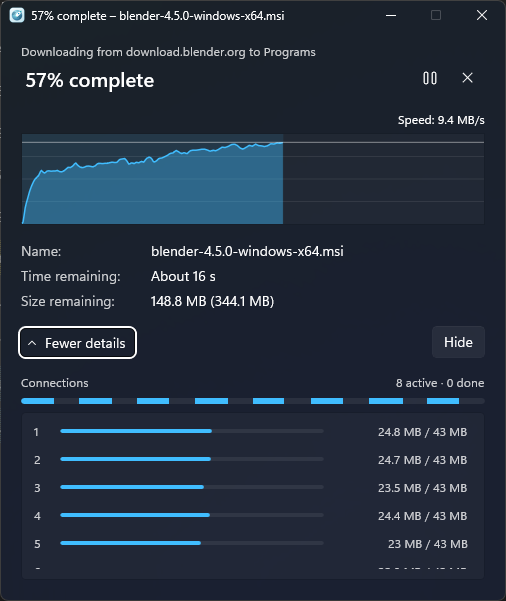
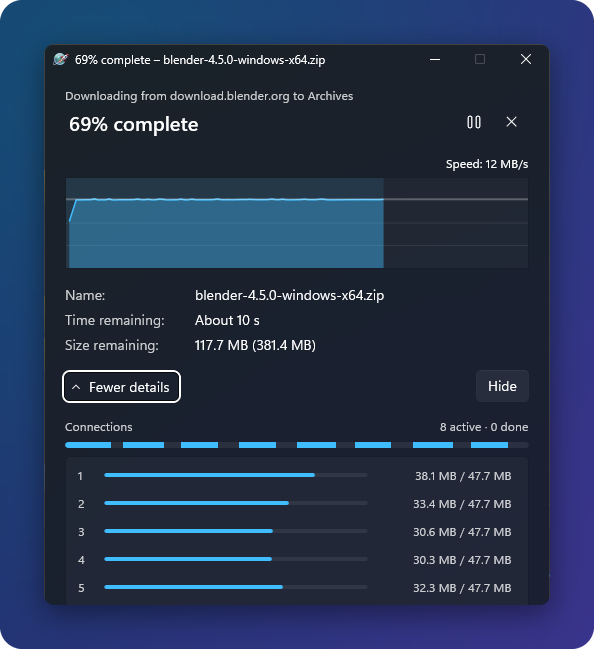
README: new landing page with cropped showcase screenshots
A centred hero with badges and a Download for Windows button, a section for the download button on videos, feature sections with light and dark screenshots, install, privacy, build and contributing. The old screenshots are replaced by the new ones.

diff --git a/README.md b/README.md
@@ -1,40 +1,110 @@
 <p align="center">
-  <img src="windows/OpenDownloadManager/Assets/app.png" width="96" height="96" alt="">
+  <img src="windows/OpenDownloadManager/Assets/app.png" width="128" height="128" alt="Open Download Manager icon">
 </p>
 
 <h1 align="center">Open Download Manager</h1>
 
 <p align="center">
-  A free, open source download manager for Windows, with a Chrome and Edge extension that hands it
-  your downloads and videos.
+  <b>A free, open-source download manager for Windows.</b><br>
+  Fast segmented downloads, a browser extension that hands it your files and videos,<br>
+  and a look that fits right in on Windows 11.
 </p>
 
 <p align="center">
-  <a href="https://github.com/Shadiul/open-download-manager/releases/latest"><b>Download for Windows</b></a>
-  ·
-  <a href="#install">Install</a>
-  ·
-  <a href="#build-from-source">Build</a>
-  ·
-  <a href="LICENSE">GPL-3.0</a>
+  <a href="https://github.com/Shadiul/open-download-manager/releases/latest"><img src="https://img.shields.io/github/v/release/Shadiul/open-download-manager?label=latest%20release&color=2f7cf6" alt="Latest release"></a>
+  <a href="https://github.com/Shadiul/open-download-manager/releases"><img src="https://img.shields.io/github/downloads/Shadiul/open-download-manager/total?color=2f7cf6" alt="Downloads"></a>
+  <a href="LICENSE"><img src="https://img.shields.io/github/license/Shadiul/open-download-manager?color=2f7cf6" alt="Licence: GPL-3.0"></a>
+  <img src="https://img.shields.io/badge/platform-Windows%2010%20%7C%2011-2f7cf6" alt="Platform: Windows 10 and 11">
+</p>
+
+<p align="center">
+  <a href="https://github.com/Shadiul/open-download-manager/releases/latest"><img src="docs/media/download-button.svg" width="340" height="64" alt="Download for Windows"></a>
+</p>
+
+<p align="center">
+  <a href="#features">Features</a> ·
+  <a href="#the-download-button-on-videos">Video button</a> ·
+  <a href="#install">Install</a> ·
+  <a href="#privacy-and-what-it-is-for">Privacy</a> ·
+  <a href="#build-from-source">Build</a> ·
+  <a href="#contributing">Contributing</a>
 </p>
 
 <p align="center">
   <a href="docs/media/demo.mp4">
-    <img src="docs/media/demo.gif" alt="A download handed over from the browser: the new-download window, the progress window with its speed graph, and the completion screen, while other downloads fill their rows in the list" width="900">
+    <img src="docs/media/demo.gif" width="900" alt="A video handed over from a web page with the corner button, the new-download window, the progress window, the tray flyout, the completion screen and the appearance options">
   </a>
   <br>
-  <sub>A browser download arriving, its progress window, and the completion screen (the middle is sped up 3×).
-  <a href="docs/media/demo.mp4">Watch in full quality</a>.</sub>
+  <sub>From the browser to a finished file in 40 seconds. <a href="docs/media/demo.mp4">Watch it in full quality (MP4)</a>.</sub>
 </p>
 
-Fast segmented downloads, pause and resume that survive a restart, a queue with a schedule, and
-video downloads from YouTube and many other sites through yt-dlp. It is for files and videos you
-have the right to download: it does not get around DRM, paywalls, or logins you do not have.
+Open Download Manager splits each file over many connections, resumes after a pause, a quit or a
+restart, keeps a queue with a schedule, and downloads videos from YouTube and many other sites
+through yt-dlp. It is for files and videos you have the right to download: it does not get around
+DRM, paywalls, or logins you do not have.
+
+<p align="center">
+  <picture>
+    <source media="(prefers-color-scheme: dark)" srcset="docs/screenshots/hero-dark.png">
+    <img src="docs/screenshots/hero-light.png" width="900" alt="The download list with finished, paused, downloading and queued downloads. Each row fills as it downloads.">
+  </picture>
+</p>
 
 ## Features
 
-**Fast and reliable downloads**
+<table>
+  <tr>
+    <td width="50%" valign="top">
+      <b>Fast and reliable</b><br>
+      Up to 32 connections per file. Downloads carry on after a pause, a quit or a restart of Windows.
+    </td>
+    <td width="50%" valign="top">
+      <b>Videos from the sites you use</b><br>
+      YouTube, Vimeo, X, Reddit, TikTok and the other sites yt-dlp supports, from 2160p down to MP3.
+    </td>
+  </tr>
+  <tr>
+    <td valign="top">
+      <b>Catches browser downloads</b><br>
+      An extension for Edge, Chrome, Brave, Vivaldi and Opera sends downloads to the app, logins included.
+    </td>
+    <td valign="top">
+      <b>Made for Windows 11</b><br>
+      Mica, light and dark themes, your accent colour, a tray flyout and a progress window per download.
+    </td>
+  </tr>
+</table>
+
+### The download button on videos
+
+> **Point at a video on a web page, and a *Download this video* button appears in its corner.**
+> One click hands that video to the app.
+
+<p align="center">
+  <img src="docs/screenshots/corner-button.png" width="720" alt="A video on a web page with the Download this video button in its top-right corner">
+</p>
+
+- The button always takes the video it sits on, even on a page with several.
+- On YouTube and on post sites (X, Reddit, Instagram, TikTok, Vimeo) it opens a quality menu first.
+  On other sites it sends the stream the browser played for that video.
+- The **×** next to it hides it for that video. Turn it off for good in the extension's popup or
+  settings, or list sites to leave alone.
+- The Chrome build leaves YouTube out, because the Chrome Web Store does not allow YouTube
+  downloads (see [Browser extension](#browser-extension)).
+
+### A new download starts at once
+
+A download from the browser starts straight away while the new-download window asks for the name
+and folder. The change applies when it finishes.
+
+<p align="center">
+  <picture>
+    <source media="(prefers-color-scheme: dark)" srcset="docs/screenshots/new-download-dark.png">
+    <img src="docs/screenshots/new-download-light.png" width="560" alt="The new-download window: size, source, file name and folder, with Download, Download later and Cancel">
+  </picture>
+</p>
+
+### Fast, and it keeps going
 
 - Splits each file over up to 32 connections. When one connection finishes, it takes over half of
   the slowest remaining part, so no connection sits idle near the end.
@@ -44,93 +114,107 @@ have the right to download: it does not get around DRM, paywalls, or logins you 
   mirror for files served from many.
 - A queue with a limit on parallel downloads, a daily time window, and sleep or shut down when
   everything is done. Speed limits overall and per download, in KB/s or MB/s.
+- A progress window per download, after the Windows file-copy dialog: a live speed graph and each
+  connection's part of the file.
 
-**Video**
+<p align="center">
+  <img src="docs/screenshots/progress-light.png" width="440" alt="The progress window: percentage, speed graph, time and size remaining">
+  &nbsp;
+  <img src="docs/screenshots/progress-details-dark.png" width="440" alt="The progress window in dark theme with details open: each of eight connections and its part of the file">
+</p>
 
-- Video pages from YouTube, Vimeo, X, Reddit, TikTok and the other sites
-  [yt-dlp](https://github.com/yt-dlp/yt-dlp) supports, with a quality menu: 2160p down to 360p,
-  M4A, or MP3. Video and audio are merged into one MP4.
-- Streams the browser plays (HLS, DASH, MP4) show up in the extension, each with its own thumbnail.
+### Everything at a glance in the tray
 
-**After a download**
+Click the tray icon for the total speed, every running download with its own pause button, a box to
+paste a link, **Pause all**, and what to do when everything is done.
+
+<p align="center">
+  <picture>
+    <source media="(prefers-color-scheme: dark)" srcset="docs/screenshots/tray-dark.png">
+    <img src="docs/screenshots/tray-light.png" width="380" alt="The tray flyout: total speed, four downloads with their progress and a paused one, a paste-a-link box, Pause all and When done">
+  </picture>
+</p>
+
+### After a download
+
+<p align="center">
+  <picture>
+    <source media="(prefers-color-scheme: dark)" srcset="docs/screenshots/complete-dark.png">
+    <img src="docs/screenshots/complete-light.png" width="440" alt="The completion screen: size, time taken and average speed, with Open, Show in folder and Close">
+  </picture>
+</p>
 
 - Open the file, show it in its folder, or extract ZIP, 7z, RAR and TAR archives into a folder next
   to them (and send the archive to the Recycle Bin). Programs and scripts are never started by
   themselves.
 - When everything is done: sleep, hibernate, shut down, restart, sign out, lock, or close the app,
   after a countdown you can cancel. Set it in Settings, or for just this time from the status bar
-  or the tray menu.
-
-**Make it yours**
-
-- Light and dark themes, Windows' accent or any colour of your own, and Mica, Mica Alt, Acrylic
-  or a solid window.
-- Rows show progress as a dot matrix, a solid or glass fill, stripes, a thin underline, or text
-  only, with a band of light that moves along downloading rows (calm, lively or off). Tint them
-  subtly or vividly, by status or by file type. A live preview shows each change.
-- Three row densities, columns you choose, filters, and search in the title bar (Ctrl+F).
-
-**Made for Windows 11**
-
-- A progress window per download, after the Windows file-copy dialog: a live speed graph and each
-  connection's part of the file, then a summary when it is done.
-- A new-download window for browser downloads: the download starts at once while you choose the name
-  and folder, and the change applies when it finishes.
+  or the tray.
 - Download again, rename or move finished files, and a separate "finishing" state while a file is
   saved or a video's picture and sound are merged.
 - Sorts files into Video, Music, Documents, Programs, Archives and Other folders.
 - Marks finished files as downloaded from the internet (Mark of the Web), so Windows and your
   antivirus check them like browser downloads.
-- Notifications, keeps the PC awake while downloading, starts with Windows, and offers to download
-  links you copy.
 
-## Screenshots
+### Make it yours
+
+Light and dark themes, Windows' accent or any colour of your own, and Mica, Mica Alt, Acrylic or a
+solid window. Settings show a live preview of every change.
 
 <p align="center">
-  <img src="docs/screenshots/app-light.png" alt="The download list in light theme, with rows that fill as each download progresses" width="820">
-</p>
-<p align="center">
-  <img src="docs/screenshots/app-dark.png" alt="The download list in dark theme" width="820">
-</p>
-<p align="center">
-  <img src="docs/screenshots/new-download.png" alt="The new-download window for a browser download, already downloading while it asks for the name and folder" width="440">
+  <img src="docs/screenshots/rows-ring.png" width="440" alt="Rows in dark theme with a dot-matrix fill and a ring beside each percentage">
   &nbsp;
-  <img src="docs/screenshots/progress-window.png" alt="A download's progress window with its speed graph" width="380">
+  <img src="docs/screenshots/rows-bar.png" width="440" alt="Rows in light theme with a glass fill and a bar beside each percentage">
 </p>
+
+- **Progress across the row:** a bar that fills the whole row, a thin underline, or off. Its look
+  is a dot matrix, a solid or glass fill, or stripes.
+- **Progress in the Progress column:** a ring or a bar beside the percentage, or text only, in the
+  same four looks.
+- A band of light that moves along downloading rows (calm, lively or off). Tint rows subtly or
+  vividly, by status or by file type.
+- Three row densities, columns you choose, filters, and search in the title bar (Ctrl+F).
+
 <p align="center">
-  <img src="docs/screenshots/progress-details-dark.png" alt="The progress window in dark theme with details open: each connection's share of the file" width="380">
-  &nbsp;
-  <img src="docs/screenshots/download-complete.png" alt="The completion screen: size, time taken and average speed" width="380">
+  <picture>
+    <source media="(prefers-color-scheme: dark)" srcset="docs/screenshots/row-styles-dark.png">
+    <img src="docs/screenshots/row-styles-light.png" width="720" alt="Appearance settings: tiles for the row progress (bar, underline, off) and the column progress (ring, bar, text only), each in four looks">
+  </picture>
 </p>
+
+**Two app icons.** Pick Orbit or Smoke in Settings → Appearance. It changes the windows, the
+taskbar, Alt+Tab and the Start menu and desktop shortcuts.
+
 <p align="center">
-  <img src="docs/screenshots/settings-appearance.png" alt="Appearance settings: a live preview of the rows, accent colours, window material and six row progress styles" width="820">
+  <picture>
+    <source media="(prefers-color-scheme: dark)" srcset="docs/screenshots/app-icon-dark.png">
+    <img src="docs/screenshots/app-icon-light.png" width="420" alt="The App icon setting with the Orbit and Smoke icons">
+  </picture>
 </p>
-<p align="center">
-  <img src="docs/screenshots/settings-after-download.png" alt="After download settings: open the file, show it, extract archives, and what the computer does when all downloads finish" width="820">
-</p>
-<p align="center">
-  <img src="docs/screenshots/welcome-browsers.png" alt="The welcome screen listing the browsers on the PC, each with a button to add the extension" width="480">
-</p>
+
+### Video
+
+- Video pages from YouTube, Vimeo, X, Reddit, TikTok and the other sites
+  [yt-dlp](https://github.com/yt-dlp/yt-dlp) supports, with a quality menu: 2160p down to 360p,
+  M4A, or MP3. Video and audio are merged into one MP4.
+- Streams the browser plays (HLS, DASH, MP4) show up in the extension's popup, each with its own
+  thumbnail.
+
+### Everyday comforts
+
+Notifications, keeps the PC awake while downloading, starts with Windows, and offers to download
+links you copy.
 
 ## Browser extension
 
-The extension (Manifest V3, Chrome and Edge) catches browser downloads and sends them to the app
-with the page's cookies and referrer, so downloads behind a login keep working. If the app is not
-running, it starts; if it is not installed, the browser keeps the download. Hold **Alt** while
-clicking a link to leave that one to the browser.
+The extension (Manifest V3) catches browser downloads and sends them to the app with the page's
+cookies and referrer, so downloads behind a login keep working. If the app is not running, it
+starts; if it is not installed, the browser keeps the download. Hold **Alt** while clicking a link
+to leave that one to the browser.
 
-It finds the videos on a page, shows how many on its icon, and puts a **Download** button on
-videos. Right-click a link or a page for **Download with Open Download Manager** or
-**Download all links**.
-
-<p align="center">
-  <img src="docs/screenshots/extension-popup.png" alt="The extension popup listing the videos on a page" width="300">
-  &nbsp;
-  <img src="docs/screenshots/extension-quality-menu.png" alt="Choosing a video quality in the extension, dark theme" width="300">
-</p>
-<p align="center">
-  <img src="docs/screenshots/extension-settings.png" alt="The extension's settings page" width="620">
-</p>
+It finds the videos on a page, shows how many on its icon, and puts the
+[download button](#the-download-button-on-videos) on videos. Right-click a link or a page for
+**Download with Open Download Manager** or **Download all links with Open Download Manager**.
 
 There are two builds of the extension, from the same code. The Chrome Web Store does not allow
 YouTube downloads, so:
@@ -147,11 +231,24 @@ You need Windows 10 (version 2004) or later, 64-bit.
 1. From the [latest release](https://github.com/Shadiul/open-download-manager/releases/latest),
    download **OpenDownloadManager-…-setup-x64.exe** and run it. It installs for your user only and
    needs no administrator rights. There is also a portable zip.
-2. Start the app. The welcome screen lists the browsers on your PC (Edge, Chrome, Brave, Vivaldi,
+2. Start the app. A short welcome sets the look, the download folder and starting with Windows.
+3. **Add the extension.** The welcome lists the browsers on your PC (Edge, Chrome, Brave, Vivaldi,
    Opera); choose **Add** next to each one you use. The app opens the browser's extensions page
    with the extension's folder beside it: turn on **Developer mode** and drag the folder onto the
    page. The app notices when the extension is in, and the extension updates with the app.
    You can add it later from **Settings → Browsers**.
+
+<p align="center">
+  <picture>
+    <source media="(prefers-color-scheme: dark)" srcset="docs/screenshots/welcome-dark.png">
+    <img src="docs/screenshots/welcome-light.png" width="440" alt="The welcome window: Welcome to Open Download Manager, with Get started">
+  </picture>
+  &nbsp;
+  <picture>
+    <source media="(prefers-color-scheme: dark)" srcset="docs/screenshots/welcome-browsers-dark.png">
+    <img src="docs/screenshots/welcome-browsers-light.png" width="440" alt="The welcome step that adds the extension: Microsoft Edge with an Add button, Google Chrome already added">
+  </picture>
+</p>
 
 The extension also comes as a zip on each release (**…-extension-edge.zip**,
 **…-extension-chrome.zip**) to load by hand with **Load unpacked**.
@@ -160,7 +257,22 @@ The installer is not code-signed yet, so Windows SmartScreen may warn about it: 
 **More info**, then **Run anyway**. Each release lists SHA-256 checksums in `SHA256SUMS.txt`.
 
 Browsers only install extensions from outside their stores by hand, which is why adding it takes
-those two steps. Store listings are planned; with them, adding it becomes a single click.
+those steps. Store listings are planned; with them, adding it becomes a single click.
+
+## Privacy and what it is for
+
+- Open Download Manager is for files and videos you have the right to download. It does not get
+  around DRM, paywalls, or logins you do not have.
+- The extension sends downloads only to the app on your own PC, through the browser's native
+  messaging; there is no server of its own. Besides that it reads only what the page itself loads,
+  such as a video's playlist to tell its qualities apart.
+- With each download it passes along the page's cookies and referrer, so that downloads behind a
+  login you have keep working.
+- Finished files are marked as downloaded from the internet (Mark of the Web), so Windows and your
+  antivirus check them like browser downloads. Programs and scripts are never started by
+  themselves.
+- Deno is not in the installer: the app downloads it, and checks its checksum, the first time a
+  YouTube video needs it.
 
 ## Build from source
 
@@ -195,7 +307,7 @@ npm test                            # extension unit tests
 npm install; npm run test:e2e       # loads the extension in Chromium with a test host
 ```
 
-## How it is built
+### How it is built
 
 ```
 core/                         Rust core, shared with a planned macOS app
